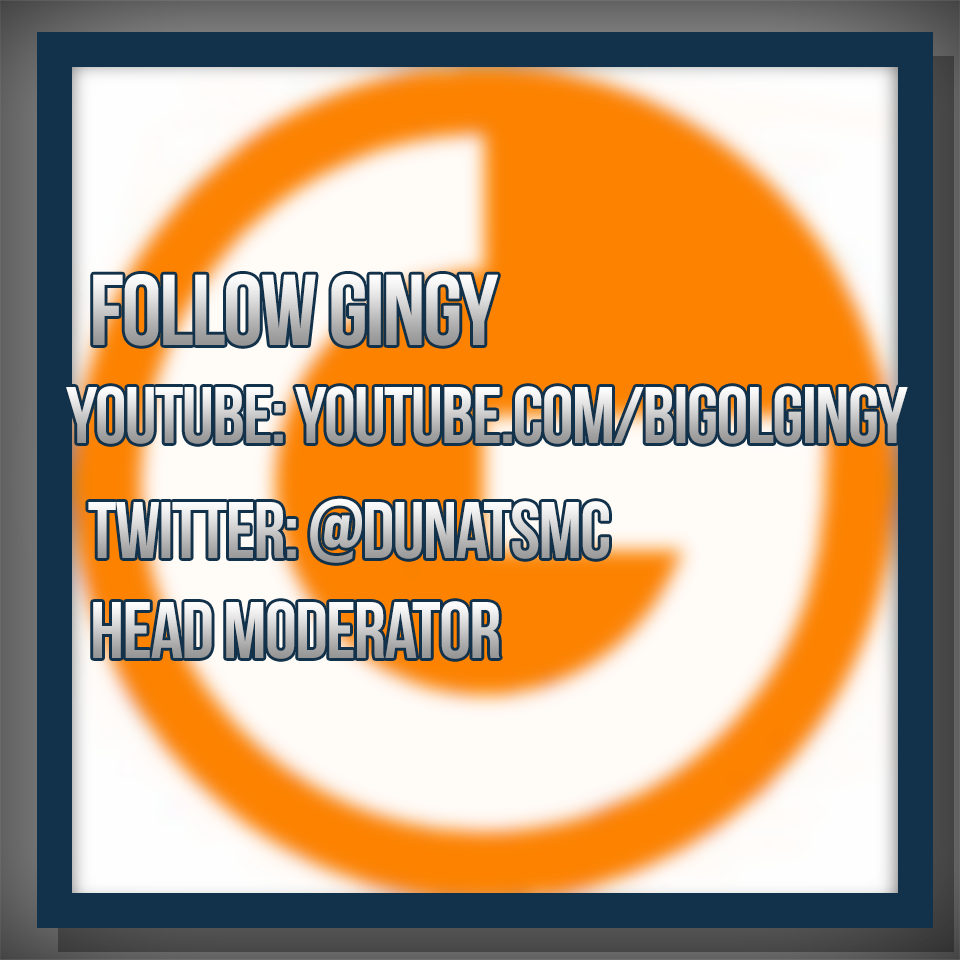
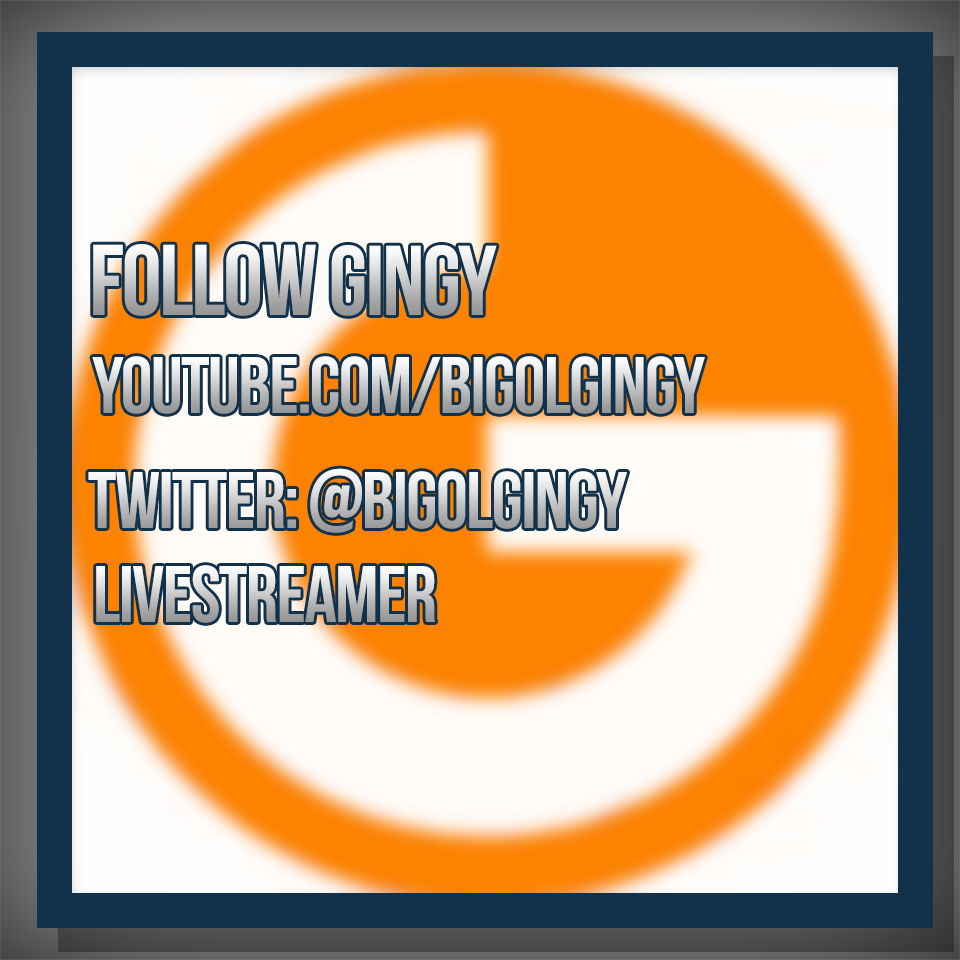
Updated Profiles + Minor Changes
Updated one profile for a streamer and made some other minor changes.

Changed region(s): [[0.0625, 0.0625, 0.9375, 0.9375], [0.2812, 0.1562, 0.3438, 0.2188]]

diff --git a/index.html b/index.html
@@ -1,6 +1,7 @@
 <html>
   <!-- Credits, License, and all other pertinent information is located in the
-  README.md file. Report all bugs to admin@lvloneshow.com.-->
+  README.md file. You can also view the read me at stillapoet.com/mrflynn/lvloneshow.
+  Report all bugs to admin@lvloneshow.com.-->
   <head>
     <title>The Level One Show</title>
     <link rel="shortcut icon" href="images/icon.png" type="image/x-icon">
@@ -17,11 +18,11 @@
         <div class="page_home">
           <h1 class="title">The Level One Show</h1>
           <div class="navbar">
-            <a class="navitem" id="firstnav" onclick="moveTo('.main', 2);" href="javascript:void(0);">Hosts</a>
+            <a class="navitem" onclick="moveTo('.main', 2);" href="javascript:void(0);">Hosts</a>
             <p class="sep">|</p>
             <a class="navitem" href="pages/team.html">Team</a>
             <p class="sep">|</p>
-            <a class="navitem" onclick="moveTo('.main', 3);" href="javascript:void(0);">Stream & Donate</a>
+            <a class="navitem" id="important" onclick="moveTo('.main', 3);" href="javascript:void(0);">Stream & Donate</a>
             <p class="sep">|</p>
             <div class="homeicons">
               <a href="https://www.youtube.com/user/lvl1show/">
@@ -118,7 +119,7 @@
             1: Winter is dedicated to the charitable side of the Gaming Community.
             Through 4 Livestreams, our goal is set to raise $500, but we hope to
             surpass this by far!</p>
-            <a class="donatelnk" href="#">Coming Soon</a>
+            <a class="donatelnk" href="http://www.onlineredkettle.org/lvl1show">Donate Here</a>
           </div>
         </div>
       </section>

diff --git a/page.css b/page.css
@@ -1,5 +1,6 @@
 /* CSS File for the Level One Show Website */
-/* Open README.md for more information */
+/* Open README.md for more information or go to stillapoet.com/mrflynn/lvloneshow */
+/* Report all bugs to admin@lvloneshow.com */
 
 /* Fonts */
 
@@ -133,7 +134,15 @@
   padding-left: 2vmin;
 }
 
-/* Hosts Page */
+
+
+#important {
+  color: red;
+}
+
+#important:hover {
+  color: grey;
+}
 
 .page_hosts {
   position: relative;
@@ -236,13 +245,9 @@
   transition-duration: 0.4s;
 }
 
-/* Uncomment when donations go live
-
 .donatelnk:hover {
   background: grey;
 }
-
-*/
 
 .donate_divider {
   border-top: solid 1px white;
